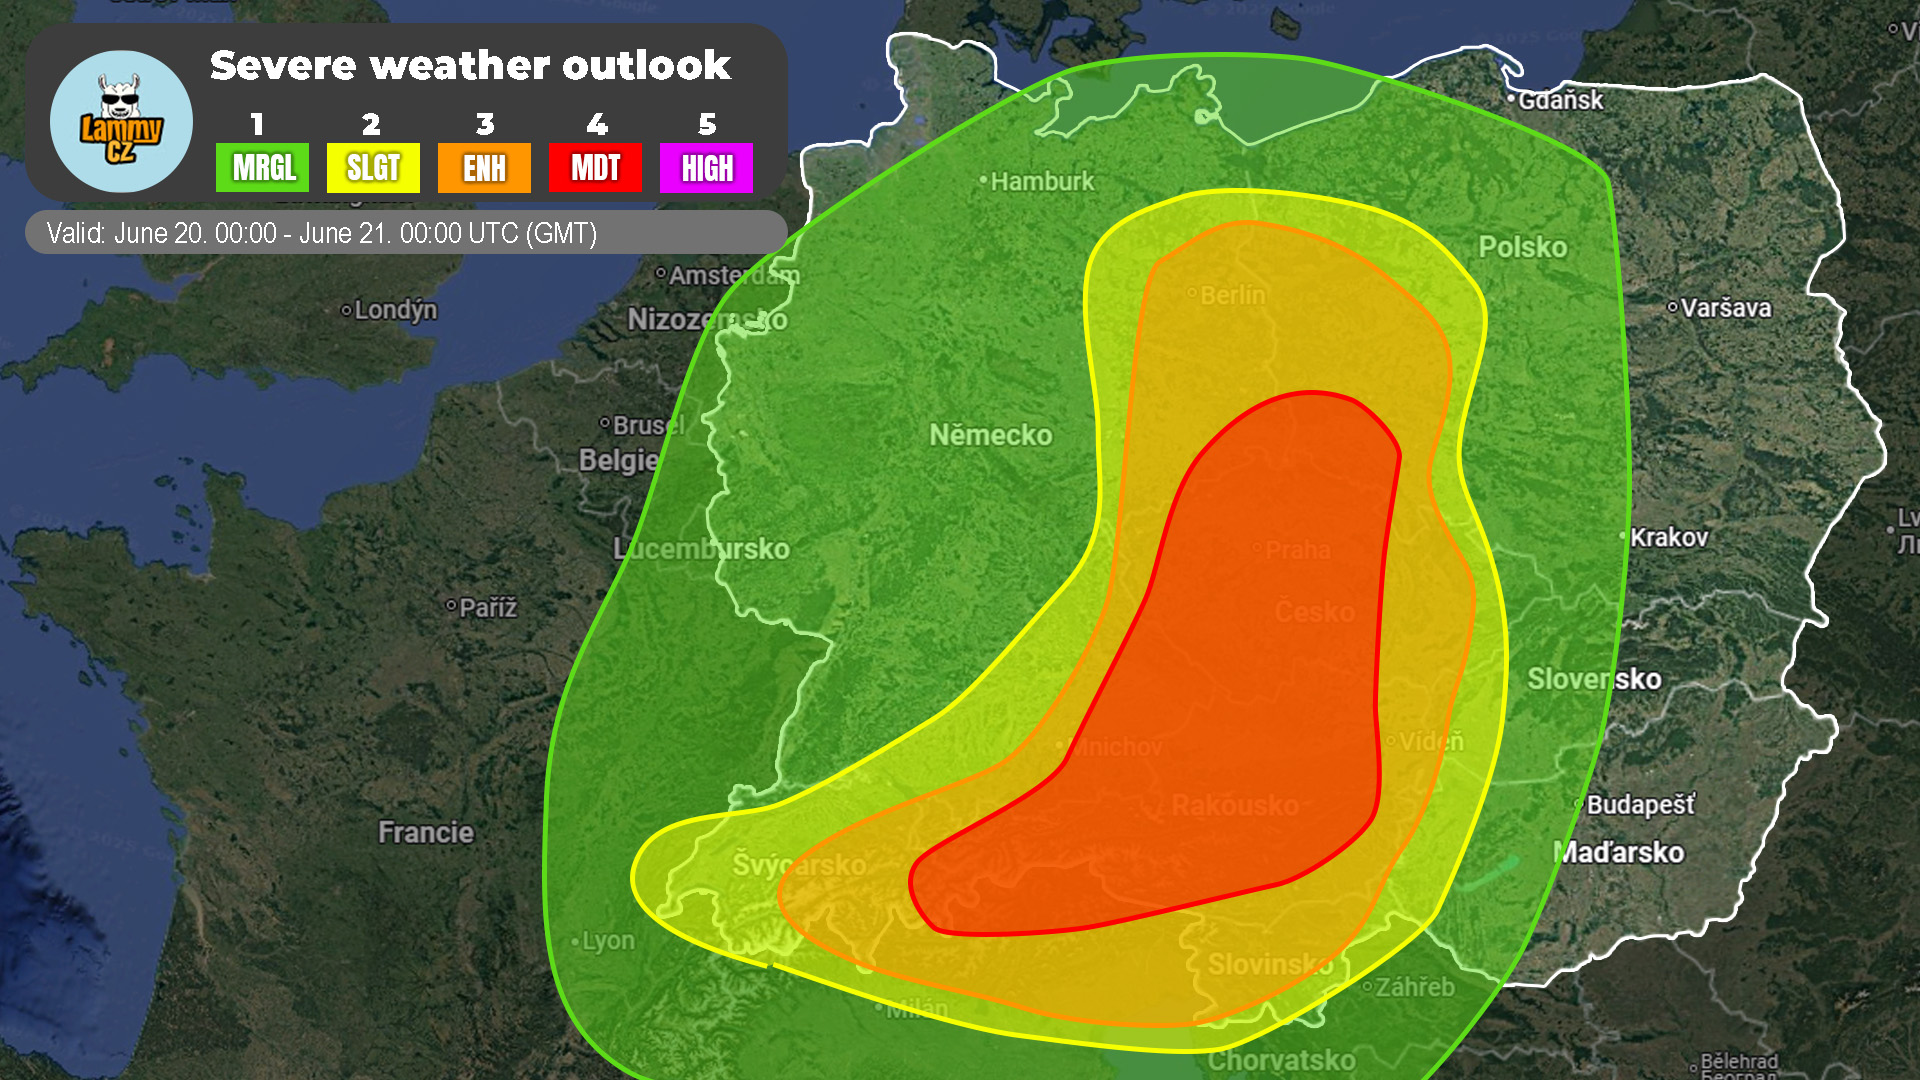
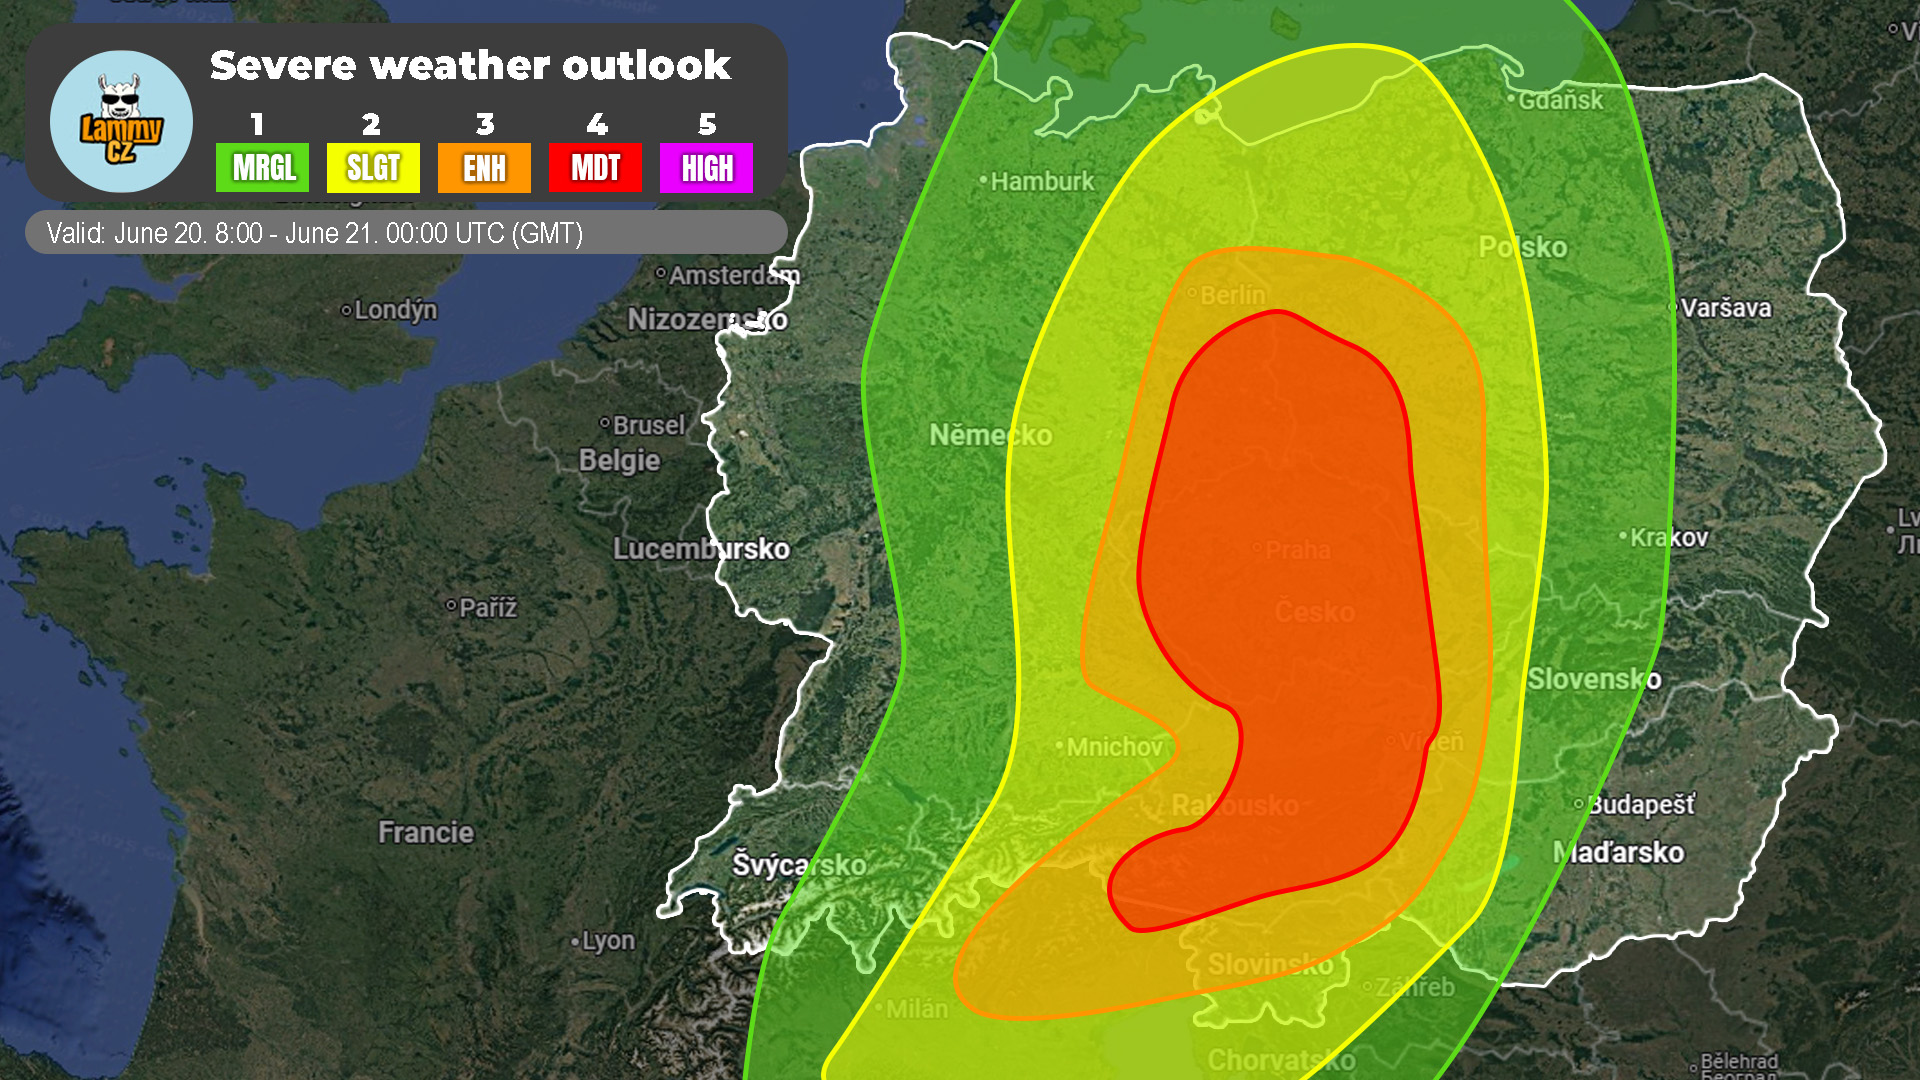
20.6.2026-update

diff --git a/data/forecasts/2026-06-20.md b/data/forecasts/2026-06-20.md
@@ -5,6 +5,18 @@ threatLevel: Moderate
 mapImage: /maps/2026-06-20.jpg
 ---
 
+## Updated outlook as of 8:00 UTC (GMT):
+
+Following the latest model guidance, several adjustments have been made to the risk areas. The most notable change is the addition of a new convective initiation zone over Poland, as multiple high-resolution models, including ICON-D2 and ALADIN, consistently indicate thunderstorm development in this region. Supporting this, the latest forecast sounding from Poland shows sufficient instability and moisture for convective initiation should localized lifting mechanisms become established.
+
+Apart from the newly added Polish initiation area, the overall forecast philosophy remains largely unchanged. Most model updates have primarily shifted the expected locations of storm initiation rather than significantly altering the overall environment. As a result, the risk areas have been adjusted to better match the latest consensus among the available guidance.
+
+This remains a particularly difficult setup to forecast because thunderstorm development is not directly tied to a well-defined front or large-scale forcing mechanism. Instead, initiation will depend heavily on smaller-scale convergence zones, local heating differences, and mesoscale processes. In situations like this, storm development can appear somewhat "luck-based," with small changes in the environment leading to major differences in storm coverage and placement. While rapid-update models provide valuable guidance, they have already shown significant run-to-run variability and will likely continue to do so throughout the day.
+
+Even during the early morning hours, some convective attempts are already visible, and cloud towers are beginning to develop. However, at least across parts of Czechia, dry air currently appears to be limiting more substantial development.
+
+No further forecast updates are planned at this time. Given the highly localized and rapidly evolving nature of the setup, updates could realistically be made every hour as new rapid-update guidance becomes available. At the moment, confidence in the overall risk placement is reasonably good, but it is important to remember that many locations within the risk areas may not experience thunderstorms at all, while a few locations could see concentrated storm development and much more active conditions.
+
 ## Overview of the Situation
 
 A broadly unstable, weakly forced summer convective setup is expected across Central Europe, with the main driver being a heat-induced boundary layer and a zone of low-level convergence positioned near Czechia. The absence of a significant synoptic trigger (no organized frontal system) means thunderstorm development will be highly localized, timing-dependent, and terrain-influenced, rather than widespread or organized on a mesoscale scale.